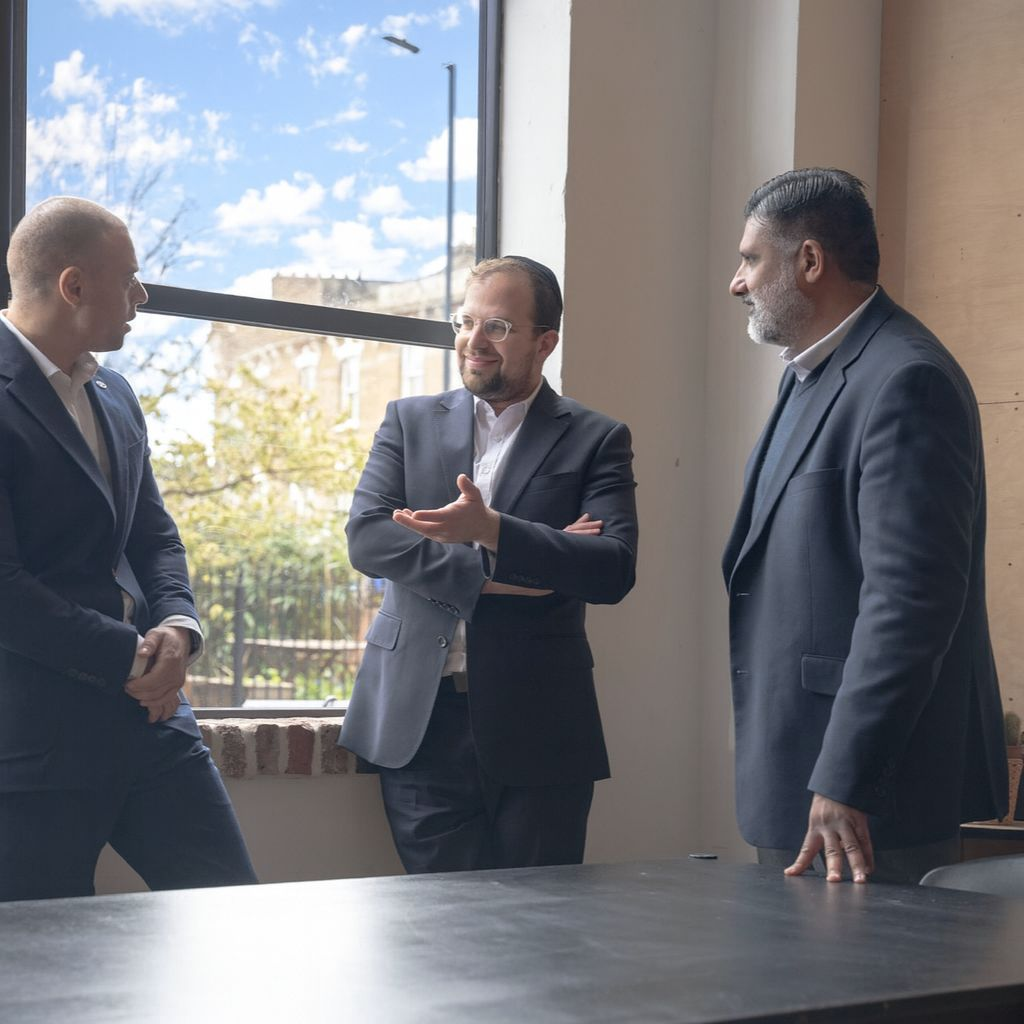
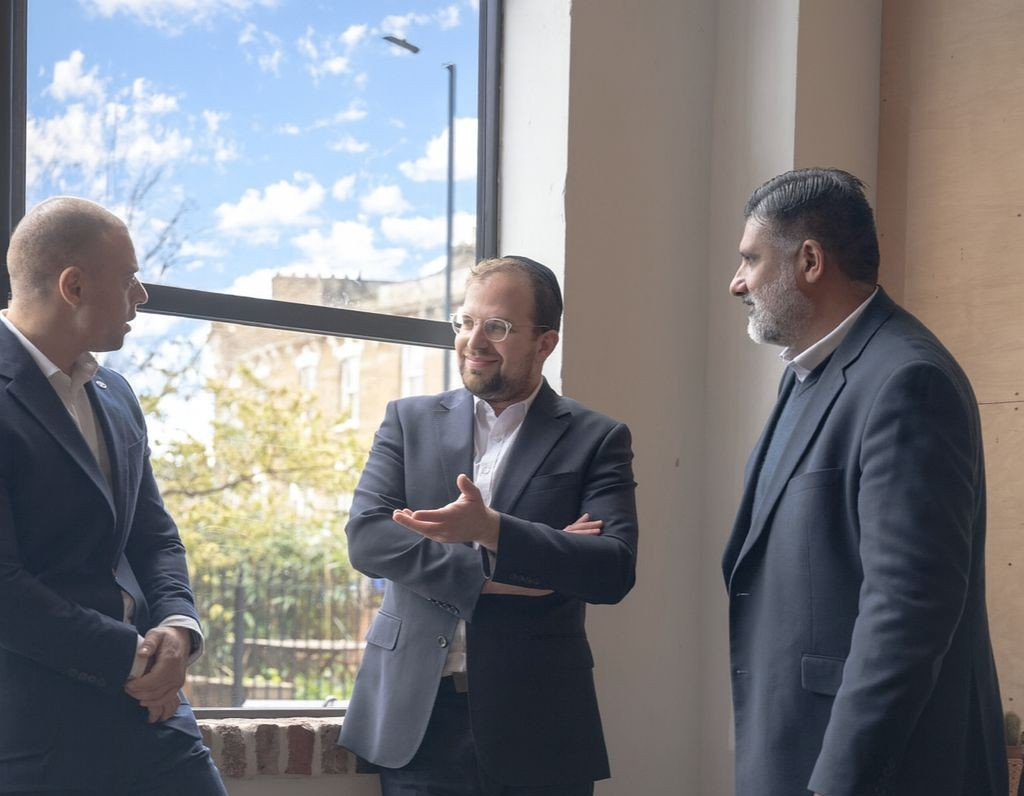
Sell with clear Strategy

diff --git a/static/css/style.css b/static/css/style.css
@@ -9469,7 +9469,7 @@ nav a#pull {
   display: grid;
   grid-template-columns: minmax(0, 1.05fr) minmax(0, 1.4fr);
   grid-template-rows: auto auto;
-  gap: 48px 56px;
+  gap: 24px 24px;
 }
 
 /* Grid areas */
@@ -9640,6 +9640,7 @@ nav a#pull {
 
 .strategy-copy {
   max-width: 545px;
+  margin-top: 43px;
 }
 
 .strategy-copy p {
@@ -9684,7 +9685,7 @@ nav a#pull {
   height: 100%;
   object-fit: cover;
   display: block;
-  filter : brightness(0.75);
+  filter : brightness(0.9);
 }
 
 
@@ -14766,4 +14767,266 @@ body.lot-details-page .wsmenu > .wsmenu-list > li > a:hover {
     width: 100%;
   }
 }
+
+/* ───── TOP-LEFT SPEECH BUBBLE CARD ───── */
+
+.strategy-bubble {
+  /* whatever grid area / margin you already have is fine */
+  display: flex;
+  align-items: flex-start;
+}
+
+/* Outer white card – Figma: 559 x 292, radius 16 */
+.strategy-bubble-card {
+  position: relative;
+  width: 559px;
+  height: 292px;
+  max-width: 100%;
+  background: #ffffff;
+  border-radius: 16px;
+  box-shadow:
+    27px 37px 18px rgba(0, 0, 0, 0.01),
+    15px 21px 16px rgba(0, 0, 0, 0.05),
+    7px 9px 12px rgba(0, 0, 0, 0.09),
+    2px 2px 6px rgba(0, 0, 0, 0.10);
+  display: flex;
+  align-items: center;
+  justify-content: center;
+}
+
+/* Inner light-grey card – Figma: 459 x 212, centred */
+.strategy-bubble-inner {
+  position: relative;
+  width: 459px;
+  height: 212px;
+  max-width: 100%;
+  background: #f5f5f5;
+  border-radius: 16px;
+  box-shadow:
+    65px 38px 30px rgba(0, 0, 0, 0.01),
+    36px 21px 25px rgba(0, 0, 0, 0.05),
+    16px 9px 19px rgba(0, 0, 0, 0.09),
+    4px 2px 10px rgba(0, 0, 0, 0.10);
+  display: flex;
+  align-items: center;
+  justify-content: center;
+}
+
+/* Text block – Figma: 317 x 104, centred */
+.strategy-bubble-text {
+  width: 317px;
+  max-width: 100%;
+  display: flex;
+  flex-direction: column;
+  text-align: center;
+  align-items: center;
+}
+
+/* === Speech bubble text block (match Figma) =================== */
+
+.strategy-bubble-text {
+  display: flex;
+  flex-direction: column;
+  align-items: center;   /* center all text horizontally */
+}
+
+/* SWIFT PROPERTY */
+.strategy-bubble-eyebrow {
+  margin: 0;
+  width: 317px;
+  text-align: center;
+  font-family: "Stack Sans Headline", system-ui, sans-serif;
+  font-weight: 600;
+  font-size: 24px;
+  line-height: 1.1;      /* 110% */
+  text-transform: uppercase;
+  color: #0F2848;
+}
+
+/* SELL WITH CLEAR – single line */
+.strategy-bubble-line1 {
+  margin: 0;
+  display: flex;
+  align-items: center;
+  justify-content: center;
+  gap: 0.25em;           /* tiny space between WITH and CLEAR */
+  width: 317px;
+  font-family: "Stack Sans Headline", system-ui, sans-serif;
+  font-weight: 700;
+  font-size: 40px;
+  line-height: 0.6;
+  text-transform: uppercase;
+  color: #0F2848;
+  white-space: nowrap;   /* keep SELL WITH CLEAR on one line on desktop */
+}
+
+/* CLEAR should not break line or be italic */
+.strategy-bubble-clear {
+  display: inline;
+  font-style: normal;
+  font-weight: 300;
+}
+
+/* STRATEGY */
+.strategy-bubble-line2 {
+  margin: 4px 0 0 0;     /* 4px gap under SELL WITH CLEAR */
+  width: 317px;
+  text-align: center;
+  font-family: "Stack Sans Headline", system-ui, sans-serif;
+  font-weight: 700;
+  font-size: 64px;
+  line-height: 1.1;
+  text-transform: uppercase;
+  color: #0F2848;
+}
+
+/* TOP-RIGHT HEADING BLOCK */
+.strategy-heading {
+  grid-column: 2;
+  grid-row: 1;
+  align-self: center;
+  margin-left: 62px;
+}
+
+.strategy-heading-inner {
+  max-width: 533px;              /* Figma width */
+  display: flex;
+  flex-direction: column;
+}
+
+/* Title: 32px, 110% line-height, uppercase */
+.strategy-heading-title {
+  font-family: 'Stack Sans Headline', system-ui, -apple-system, BlinkMacSystemFont, "Segoe UI", sans-serif;
+  font-style: normal;
+  font-weight: 500;
+  font-size: 32px;
+  line-height: 1.1;              /* 110% */
+  text-transform: uppercase;
+  color: #0F2848;
+  margin: 0;                     /* Figma has gap handled outside */
+}
+
+/* Red line: 108px wide, 2px tall, 16px gap from title */
+.strategy-heading-divider {
+  width: 108px;
+  border: 0;
+  border-top: 2px solid #AD1D18;
+  margin: 16px 0 0;              /* 16px from title, no bottom margin */
+}
+
+/* Body copy: 16px, 110%, 8px gap from line, 402px text width */
+.strategy-heading-body {
+  max-width: 402px;              /* Figma width so it wraps like the design */
+  font-family: 'Stack Sans Headline', system-ui, -apple-system, BlinkMacSystemFont, "Segoe UI", sans-serif;
+  font-style: normal;
+  font-weight: 300;
+  font-size: 16px;
+  line-height: 1.1;
+  color: #0F2848;
+  margin: 8px 0 0;               /* 8px from the red line */
+}
+
+/* Tablet tweak */
+@media (max-width: 1024px) {
+  .strategy-grid {
+    grid-template-columns: 1fr;
+    grid-template-rows: auto auto auto auto;
+  }
+
+  .strategy-heading,
+  .strategy-image-wrapper {
+    grid-column: 1;
+  }
+
+  .strategy-heading-inner {
+    max-width: 100%;
+  }
+
+  .strategy-heading-title {
+    font-size: 26px;
+  }
+}
+
+.strategy-bubble {
+  grid-column: 1;
+  grid-row: 1;
+  position: relative;         /* so the connector can be placed against it */
+}
+
+.strategy-bubble-connector {
+  position: absolute;
+  width: 81.41px;             /* Figma: width 74.41px */
+  height: 74.41px;            /* Figma: height 24.74px */
+  border-radius: 100px;       /* matches the pill shape if SVG is plain rect */
+  bottom: -52px;              /* sits slightly below the bubble – tweak if needed */
+  right: -42px;                /* horizontal offset – tweak until it visually matches */
+  transform-origin: center;   /* rotate around centre like Figma */
+  pointer-events: none;       /* decorative only */
+}
+
+
+/* Outer slot in the grid */
+.strategy-image-wrapper {
+  grid-column: 2;
+  grid-row: 2;
+  position: relative;
+  max-width: 796px;         /* Figma width */
+  width: 100%;
+}
+
+/* The actual card frame */
+.strategy-image-frame {
+  position: relative;
+  background: #F4F4F4;
+  border-radius: 16px;      /* Figma radius */
+  overflow: hidden;
+  aspect-ratio: 796 / 435;  /* keep proportions while scaling */
+}
+
+/* If you kept the original HTML (no .strategy-image-frame),
+   you can copy these styles onto .strategy-image-wrapper instead. */
+
+/* Image fills the frame */
+.strategy-image {
+  width: 100%;
+  height: 100%;
+  display: block;
+  object-fit: cover;
+}
+
+.auction-feature-logo-badge {
+  position: absolute;
+  width: 177px;                  /* Figma width */
+  height: 96px;                  /* Figma height */
+  right: 16px;                   /* nudge until it visually matches */
+  bottom: 16px;
+  border-radius: 5px;            /* Figma radius */
+  background: rgba(255, 255, 255, 0.2);
+  backdrop-filter: blur(15px);   /* frosted glass */
+  display: flex;
+  align-items: center;
+  justify-content: center;
+  padding: 0;
+}
+
+.auction-feature-logo-badge img {
+  width: 177px;        /* inner frame width from Figma */
+  max-width: 100%;
+  height: auto;
+  display: block;
+}
+
+.strategy-image-wrapper::before {
+  content: "";
+  position: absolute;
+  width: 231px;
+  height: 231px;
+  left: -149px;
+  top: -164px;
+  background: #FFFFFF;
+  filter: blur(50px);
+  pointer-events: none;
+}
+
+
 

diff --git a/templates/home.html b/templates/home.html
@@ -534,19 +534,28 @@
 				<div class="strategy-grid">
 
 					<!-- TOP-LEFT: SPEECH BUBBLE CARD -->
-					<div class="strategy-bubble">
-						<div class="strategy-bubble-card">
-							<div class="strategy-bubble-inner">
-								<div class="strategy-bubble-text">
-									<div class="strategy-bubble-eyebrow">SWIFT PROPERTY</div>
-										<div class="strategy-bubble-line1">
-										SELL WITH <span class="strategy-bubble-clear">CLEAR</span>
-										</div>
-									<div class="strategy-bubble-line2">STRATEGY</div>
-								</div>
-							</div>
+				<div class="strategy-bubble">
+				<div class="strategy-bubble-card">
+					<div class="strategy-bubble-inner">
+					<div class="strategy-bubble-text">
+						<div class="strategy-bubble-eyebrow">SWIFT PROPERTY</div>
+						<div class="strategy-bubble-line1">
+						SELL WITH <span class="strategy-bubble-clear">CLEAR</span>
 						</div>
+						<div class="strategy-bubble-line2">STRATEGY</div>
 					</div>
+					</div>
+				</div>
+
+				<!-- Connector pill -->
+				<img
+					src="{{ url_for('static', filename='images/rectangle.svg') }}"
+					alt=""
+					class="strategy-bubble-connector"
+				>
+				</div>
+
+
 
 					<!-- TOP-RIGHT: HEADING + RED LINE + SHORT BODY -->
 					<div class="strategy-heading">
@@ -603,21 +612,22 @@
 
 					<!-- BOTTOM-RIGHT: IMAGE + BADGE -->
 					<div class="strategy-image-wrapper">
-						<img
+						<div class="strategy-image-frame">
+							<img
 							src="{{ url_for('static', filename='images/valuation-team.jpg') }}"
 							alt="Swift Property Auctions team meeting"
 							class="strategy-image"
-						>
-
-						<!-- Bottom-right frosted badge (reusing your badge pattern) -->
-						<div class="auction-feature-logo-badge">
-							<img
-							src="{{ url_for('static', filename='images/swift-intelligence-badge.svg') }}"
-							alt="Swift Intelligence – Industry Leading"
 							>
+
+							<!-- Bottom-right frosted badge -->
+							<div class="auction-feature-logo-badge">
+							<img
+								src="{{ url_for('static', filename='images/swift-intelligence-badge.svg') }}"
+								alt="Swift Intelligence – Industry Leading"
+							>
+							</div>
 						</div>
 					</div>
-
 				</div>
 			</section>
 

diff --git a/static/css/responsive.css b/static/css/responsive.css
@@ -6235,3 +6235,4 @@
 }
 
 
+
